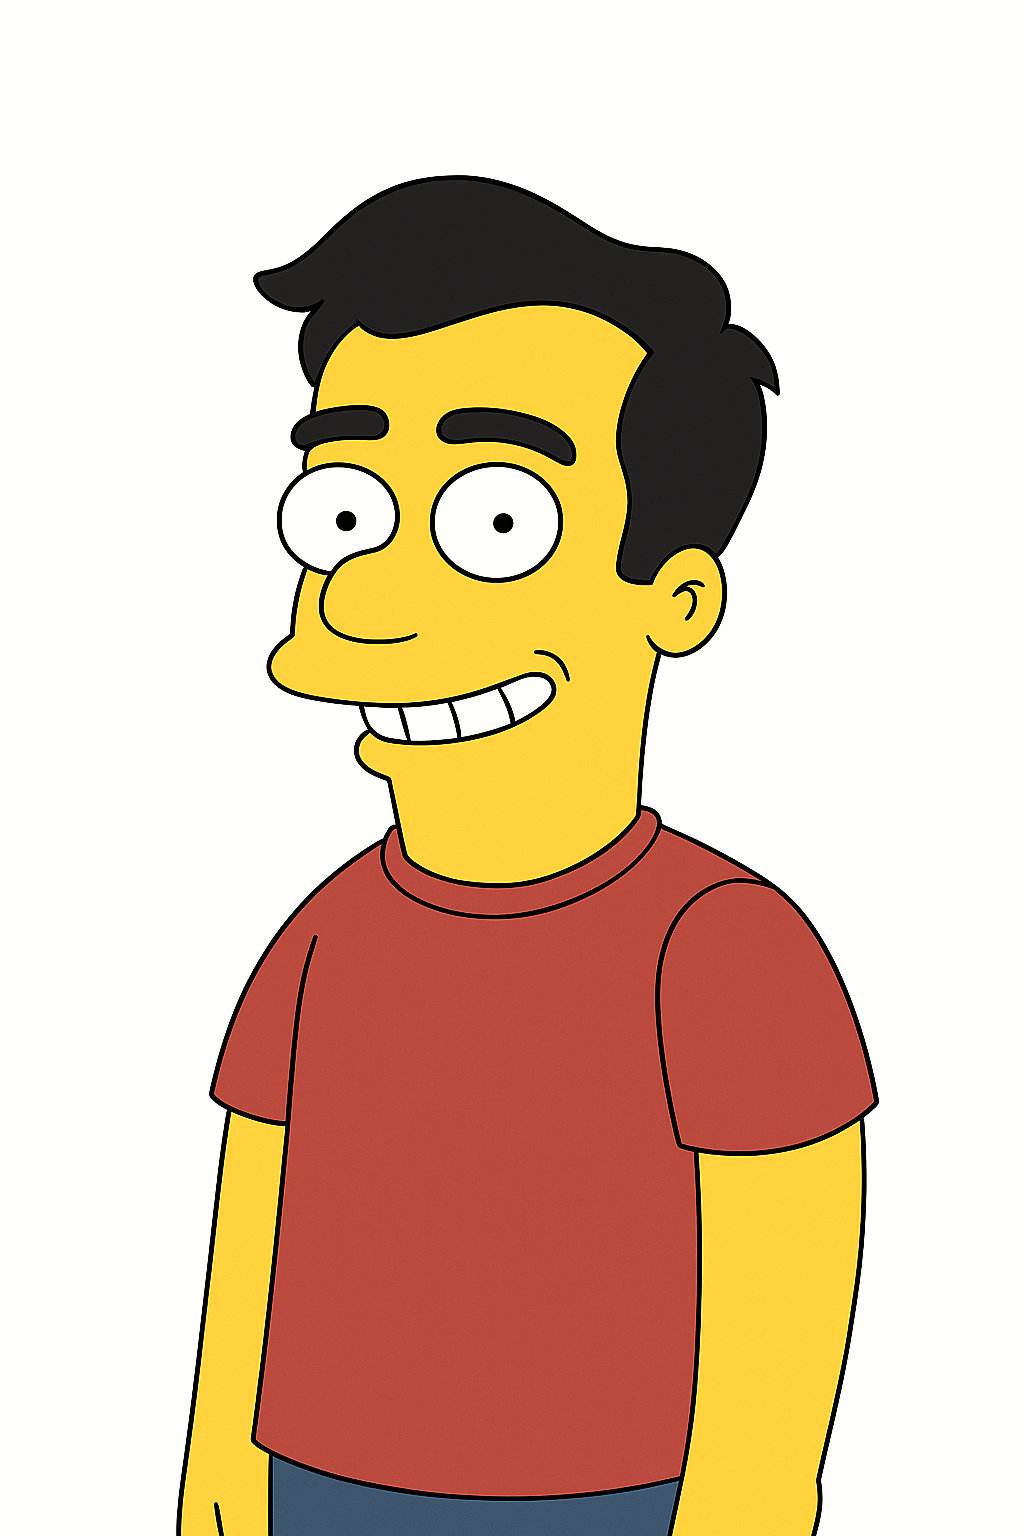
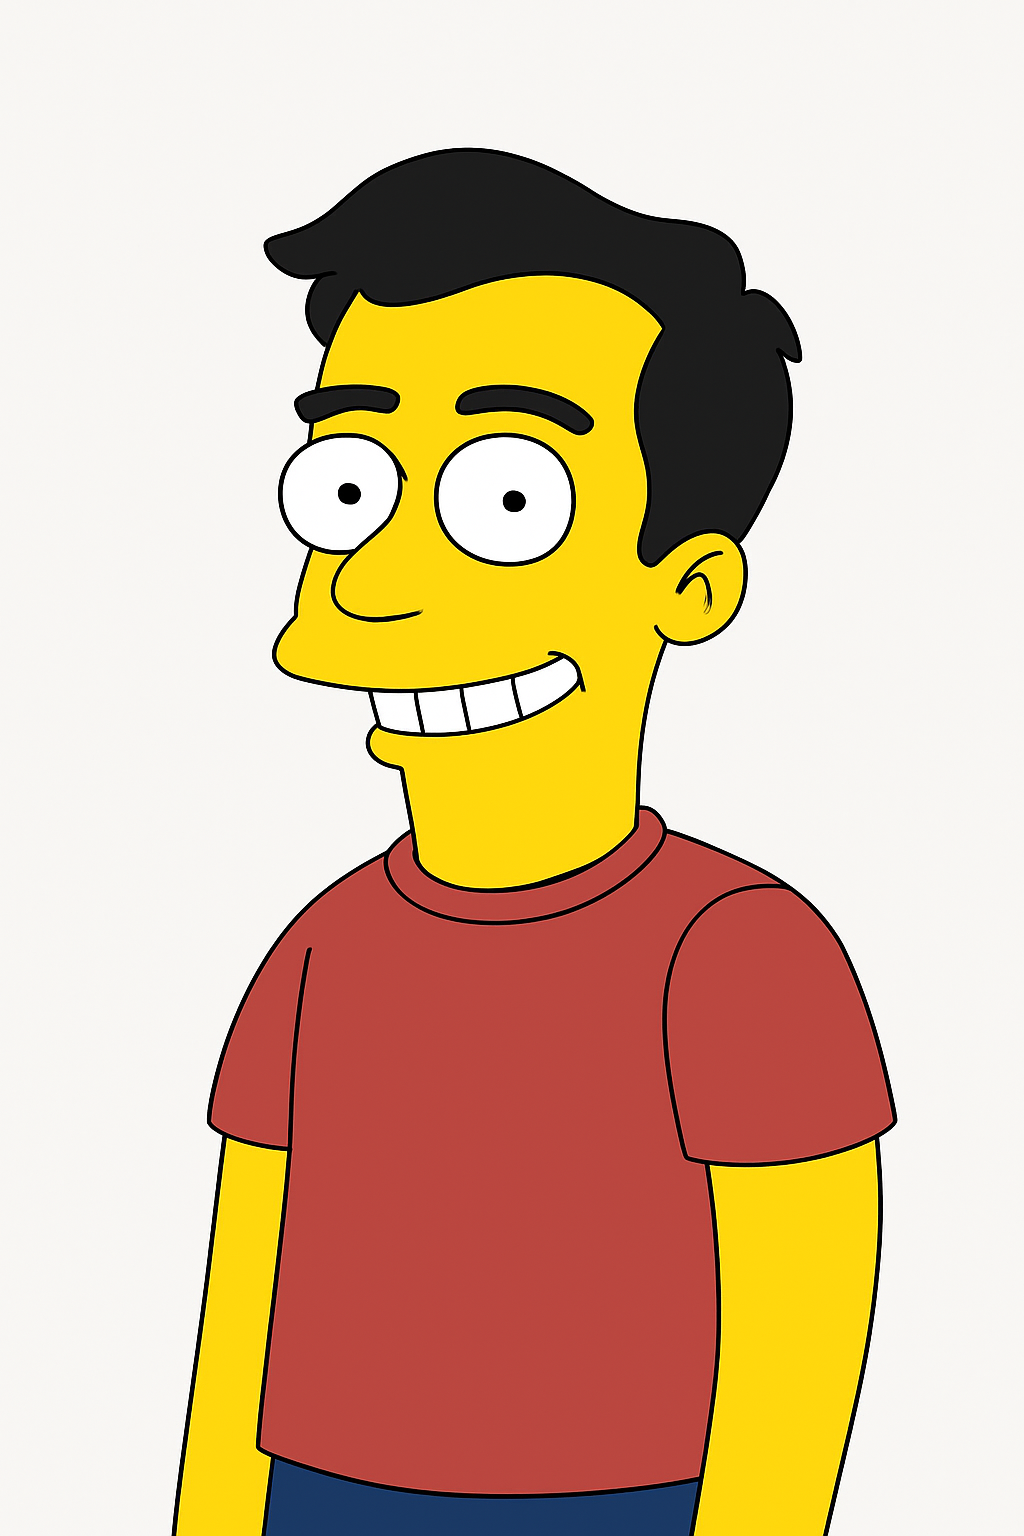
complete about me section

diff --git a/public/css/styles.css b/public/css/styles.css
@@ -7,9 +7,19 @@ body {
 }
 
 h1, h2, h3 {
-    font-family: 'Merriweather', serif;
     color: #1a1a1a;
     text-align: center;
+}
+
+.about-section{
+    display: flex;
+    flex-direction: row;
+    justify-content: center;
+    align-items: center;
+    padding: 1em 0;
+    background-color: #f5f5f5;
+    font-family: system-ui, -apple-system, BlinkMacSystemFont, 'Segoe UI', Roboto, Oxygen, Ubuntu, Cantarell, 'Open Sans', 'Helvetica Neue', sans-serif;
+    font-size: larger;
 }
 
 .about-text {
@@ -23,7 +33,7 @@ h1, h2, h3 {
 
 #about-img{
     width: 40%;
-    height: 80%;
+    height: 100vh;
 }
 
 span {
